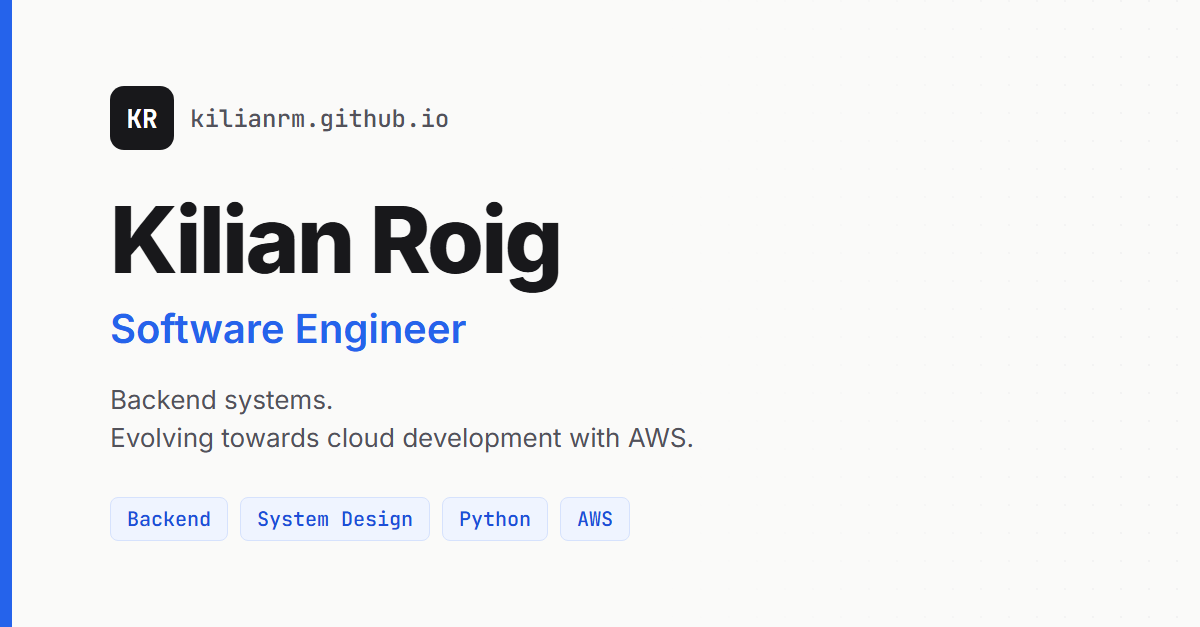
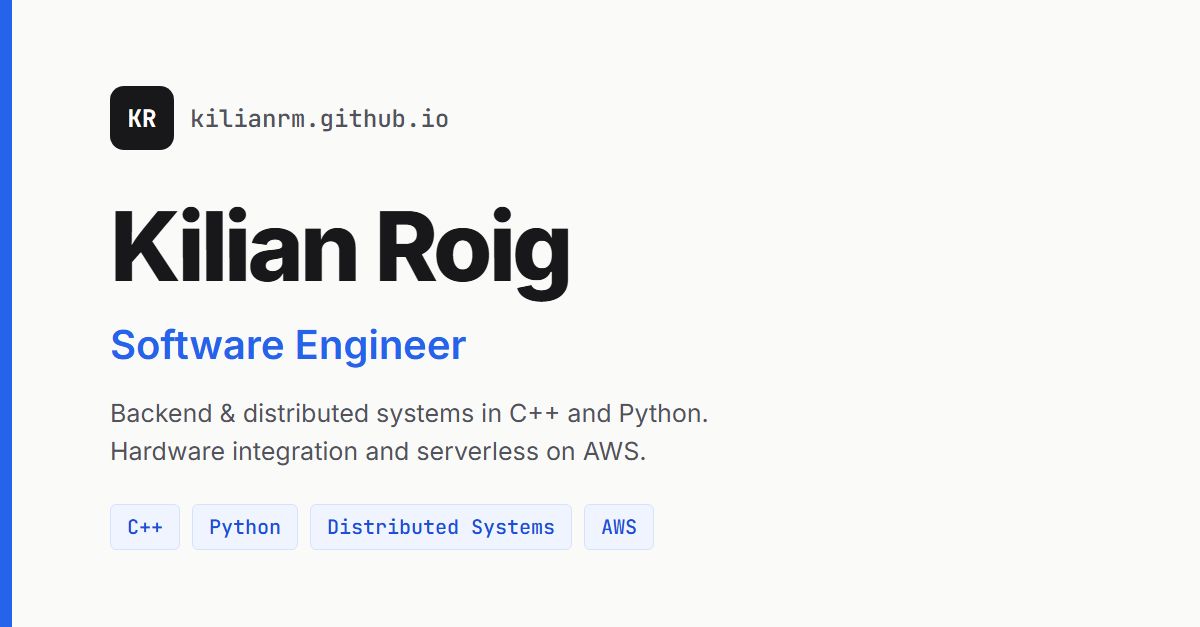
Refactor index section

diff --git a/index.html b/index.html
@@ -5,12 +5,12 @@
     <meta name="viewport" content="width=device-width, initial-scale=1.0">
     <!-- BLOCK dark mode -->
     <meta name="color-scheme" content="light">
-    <meta name="description" content="Software Engineer with experience in technically demanding environments, working on backend systems, simulation platforms and data-driven software.">
+    <meta name="description" content="Backend Software Engineer building distributed systems in C++ and Python, with hands-on hardware and sensor integration and serverless, event-driven experience on AWS.">
     <title>Kilian Roig - Software Engineer</title>
     <meta property="og:type" content="website">
     <meta property="og:site_name" content="Kilian Roig">
     <meta property="og:title" content="Kilian Roig - Software Engineer">
-    <meta property="og:description" content="Software Engineer with experience in technically demanding environments, working on backend systems.">
+    <meta property="og:description" content="Backend Software Engineer building distributed systems in C++ and Python, with hands-on hardware and sensor integration and serverless, event-driven experience on AWS.">
     <meta property="og:url" content="https://kilianrm.github.io/">
     <meta property="og:image" content="https://kilianrm.github.io/assets/og-image.png">
     <meta property="og:image:width" content="1200">
@@ -21,7 +21,7 @@
     <link rel="preconnect" href="https://fonts.googleapis.com">
     <link rel="preconnect" href="https://fonts.gstatic.com" crossorigin>
     <link rel="stylesheet" href="https://fonts.googleapis.com/css2?family=Inter:wght@400;500;600;700&family=JetBrains+Mono:wght@400;500;600&display=swap">
-    <link rel="stylesheet" href="style.css?v=7">
+    <link rel="stylesheet" href="style.css?v=14">
 </head>
 <body>
 <a class="skip-link" href="#main">Skip to content</a>
@@ -46,9 +46,10 @@
         <h1>Kilian Roig</h1>
         <p class="hero-role">Software Engineer</p>
         <p class="hero-bio">
-            Software Engineer with experience in technically demanding environments, working on backend systems,
-            simulation platforms and data-driven software. Focused on clean code, system design and long-term
-            maintainability, currently evolving towards cloud-based development with AWS.
+            Backend Software Engineer building distributed systems in C++ and Python. Currently at Sopra Steria,
+            developing C++ services for highway infrastructure. Background in aeronautical communication systems,
+            network routing and hardware and sensor integration. On the cloud side, I build serverless, event-driven
+            systems on AWS with Terraform and CI/CD.
         </p>
         <div class="cta-buttons">
             <a href="assets/cv-kilian-roig.pdf"
@@ -74,6 +75,30 @@
         <h2 class="section-title">Experience</h2>
 
         <ol class="timeline">
+            <li class="timeline-item">
+                <p class="timeline-date">May 2026 – Present</p>
+                <div class="timeline-body">
+                    <h3>Software Engineer (C++) – Sopra Steria</h3>
+                    <ul class="list">
+                        <li>Design, develop and maintain C++ backend services that process requests from highway infrastructure components.</li>
+                        <li>Work on distributed systems integration across services and infrastructure components.</li>
+                        <li>Drive performance optimization and debugging of production backend services.</li>
+                    </ul>
+                </div>
+            </li>
+
+            <li class="timeline-item">
+                <p class="timeline-date">Jan 2026 – Apr 2026</p>
+                <div class="timeline-body">
+                    <h3>Independent Project – Cloud Engineering (AWS)</h3>
+                    <ul class="list">
+                        <li>Built a <a href="personal-projects.html#event-project">serverless event-driven platform</a> on AWS using Lambda, API Gateway, SQS and DynamoDB.</li>
+                        <li>Secured the API with JWT Lambda authorizers and added DLQ-based fault tolerance and CloudWatch observability.</li>
+                        <li>Provisioned all infrastructure with Terraform and validated it with unit, integration and end-to-end tests.</li>
+                    </ul>
+                </div>
+            </li>
+
             <li class="timeline-item">
                 <p class="timeline-date">Jun 2025 – Sep 2025</p>
                 <div class="timeline-body">
@@ -115,16 +140,19 @@
         </ol>
     </section>
 
-    <!-- TRAINING -->
-    <section class="section" id="training">
-        <h2 class="section-title">Training</h2>
+    <!-- EDUCATION -->
+    <section class="section" id="education">
+        <h2 class="section-title">Education</h2>
 
-        <ul class="list">
-            <li><strong>Operating Systems Fundamentals for Communication Systems</strong> (40 hours) – Indra</li>
-            <li><strong>C++ Programming Fundamentals</strong> (40 hours) – Indra</li>
-            <li><strong>IP Networking Fundamentals</strong> (40 hours) – Indra</li>
-            <li><strong>Docker and Kubernetes Fundamentals</strong> (40 hours) – Indra</li>
-        </ul>
+        <ol class="timeline">
+            <li class="timeline-item">
+                <p class="timeline-date">Sep 2018 – Jul 2022</p>
+                <div class="timeline-body">
+                    <h3>Bachelor’s Degree in Computer Engineering – Universitat Politècnica de Catalunya</h3>
+                    <p>Information Technology</p>
+                </div>
+            </li>
+        </ol>
     </section>
 
     <!-- SKILLS -->
@@ -135,41 +163,92 @@
             <div class="skill-category">
                 <h3>Languages</h3>
                 <ul>
-                    <li>C / C++</li>
                     <li>Python</li>
+                    <li>Go</li>
+                    <li>C / C++ (Qt)</li>
                     <li>Bash</li>
                 </ul>
             </div>
 
             <div class="skill-category">
-                <h3>Backend &amp; Systems</h3>
+                <h3>Backend &amp; Architecture</h3>
                 <ul>
+                    <li>Microservices</li>
+                    <li>Event-driven Architecture</li>
                     <li>FastAPI</li>
-                    <li>Client–Server Architectures</li>
-                    <li>Simulation &amp; Data Processing</li>
-                    <li>Linux Systems</li>
+                    <li>JWT Authentication</li>
+                    <li>System Design</li>
+                    <li>Distributed Systems Testing</li>
                 </ul>
             </div>
 
             <div class="skill-category">
-                <h3>Cloud &amp; DevOps</h3>
+                <h3>AWS</h3>
                 <ul>
-                    <li>AWS (learning &amp; hands-on projects)</li>
+                    <li>Lambda</li>
+                    <li>API Gateway</li>
+                    <li>SQS</li>
+                    <li>ECS</li>
+                    <li>EKS</li>
+                    <li>CDK</li>
+                </ul>
+            </div>
+
+            <div class="skill-category">
+                <h3>DevOps &amp; Infrastructure</h3>
+                <ul>
+                    <li>Kubernetes</li>
                     <li>Docker &amp; Docker Compose</li>
+                    <li>Terraform (IaC)</li>
                     <li>CI/CD (GitHub Actions)</li>
                 </ul>
             </div>
 
             <div class="skill-category">
-                <h3>Practices</h3>
+                <h3>Databases</h3>
                 <ul>
-                    <li>Clean Code &amp; Maintainability</li>
-                    <li>System Design</li>
-                    <li>Testing &amp; Validation</li>
-                    <li>Long-term Ownership</li>
+                    <li>PostgreSQL</li>
+                    <li>MongoDB</li>
+                    <li>DynamoDB</li>
+                    <li>Redis</li>
+                </ul>
+            </div>
+
+            <div class="skill-category">
+                <h3>Systems &amp; Networking</h3>
+                <ul>
+                    <li>Linux Systems</li>
+                    <li>Real-time Communication Systems</li>
+                    <li>Network Routing</li>
+                    <li>Packet-level Traffic Analysis</li>
                 </ul>
             </div>
         </div>
+    </section>
+
+    <!-- TRAINING -->
+    <section class="section" id="training">
+        <h2 class="section-title">Training</h2>
+
+        <ul class="list">
+            <li><strong>Kubernetes Hands-on Training</strong> (20 hours) – Sopra Steria</li>
+            <li><strong>Microservices: Solution Building Training</strong> (12 hours) – Sopra Steria</li>
+            <li><strong>Operating Systems Fundamentals for Communication Systems</strong> (40 hours) – Indra</li>
+            <li><strong>C++ Programming Fundamentals</strong> (40 hours) – Indra</li>
+            <li><strong>IP Networking Fundamentals</strong> (40 hours) – Indra</li>
+            <li><strong>Docker and Kubernetes Fundamentals</strong> (40 hours) – Indra</li>
+        </ul>
+    </section>
+
+    <!-- LANGUAGES -->
+    <section class="section" id="languages">
+        <h2 class="section-title">Languages</h2>
+
+        <ul class="list">
+            <li><strong>Catalan</strong> – Native or bilingual proficiency</li>
+            <li><strong>Spanish</strong> – Native or bilingual proficiency</li>
+            <li><strong>English</strong> – Professional working proficiency</li>
+        </ul>
     </section>
 
     <!-- CONTACT -->

diff --git a/style.css b/style.css
@@ -446,6 +446,11 @@ main.container {
     margin-top: 10px;
 }
 
+.timeline-body > p {
+    margin-top: 4px;
+    color: var(--text-muted);
+}
+
 /* =====================
    Lists
    ===================== */
@@ -486,12 +491,23 @@ main.container {
 
 .skills-grid {
     display: grid;
-    grid-template-columns: repeat(2, 1fr);
-    gap: 32px 40px;
+}
+
+.skill-category {
+    display: grid;
+    grid-template-columns: 190px 1fr;
+    gap: 16px;
+    align-items: baseline;
+    padding: 12px 0;
+    border-top: 1px solid var(--border);
+}
+
+.skill-category:first-child {
+    padding-top: 0;
+    border-top: 0;
 }
 
 .skill-category h3 {
-    margin-bottom: 12px;
     font-size: 0.95rem;
     font-weight: 600;
     color: var(--text);
@@ -500,16 +516,16 @@ main.container {
 .skill-category ul {
     display: flex;
     flex-wrap: wrap;
-    gap: 8px;
+    gap: 6px;
     list-style: none;
 }
 
 .skill-category li {
-    padding: 5px 12px;
+    padding: 3px 10px;
     border: 1px solid var(--border);
     border-radius: 999px;
     background: var(--surface);
-    font-size: 0.875rem;
+    font-size: 0.8125rem;
     color: var(--text-muted);
 }
 
@@ -558,6 +574,26 @@ main.container {
     margin: -36px -36px 28px;
     border-bottom: 1px solid var(--border);
     background: #f5f8ff;
+}
+
+.project--featured .project-media {
+    position: relative;
+}
+
+/* Ribbon hanging from the top edge, with a notched tail. */
+.project-featured {
+    position: absolute;
+    top: 0;
+    right: 24px;
+    z-index: 1;
+    display: flex;
+    justify-content: center;
+    width: 28px;
+    height: 40px;
+    padding-top: 9px;
+    background: linear-gradient(180deg, #fbbf24, #f59e0b);
+    clip-path: polygon(0 0, 100% 0, 100% 100%, 50% 78%, 0 100%);
+    color: #ffffff;
 }
 
 .project-media img {
@@ -689,6 +725,12 @@ main.container {
 .project-grid.is-enhanced .project:hover {
     border-color: var(--accent-border);
     box-shadow: 0 10px 30px -14px rgba(37, 99, 235, 0.3);
+}
+
+/* Featured card: gold hover to match its ribbon. */
+.project-grid.is-enhanced .project--featured:hover {
+    border-color: #fcd34d;
+    box-shadow: 0 0 0 1px #fde68a, 0 10px 30px -12px rgba(245, 158, 11, 0.45);
 }
 
 .project-grid.is-enhanced .project > :not(.project-media):not(.project-header):not(.tech-stack):not(.project-open) {
@@ -831,6 +873,19 @@ html.dialog-open {
     box-shadow: none;
 }
 
+/* Keep the ribbon clear of the close button (12px inset + 36px wide). */
+.project-dialog .project-featured {
+    right: 80px;
+    width: 36px;
+    height: 52px;
+    padding-top: 12px;
+}
+
+.project-dialog .project-featured svg {
+    width: 18px;
+    height: 18px;
+}
+
 @keyframes dialogIn {
     from {
         opacity: 0;
@@ -967,7 +1022,11 @@ html.dialog-open {
         top: -18px;
     }
 
-    .skills-grid,
+    .skill-category {
+        grid-template-columns: 1fr;
+        gap: 8px;
+    }
+
     .contact-list {
         grid-template-columns: 1fr;
         gap: 24px;

diff --git a/personal-projects.html b/personal-projects.html
@@ -21,7 +21,7 @@
     <link rel="preconnect" href="https://fonts.googleapis.com">
     <link rel="preconnect" href="https://fonts.gstatic.com" crossorigin>
     <link rel="stylesheet" href="https://fonts.googleapis.com/css2?family=Inter:wght@400;500;600;700&family=JetBrains+Mono:wght@400;500;600&display=swap">
-    <link rel="stylesheet" href="style.css?v=7">
+    <link rel="stylesheet" href="style.css?v=14">
 </head>
 <body>
 <a class="skip-link" href="#main">Skip to content</a>
@@ -50,8 +50,11 @@
 
         <div class="project-grid">
 
-        <article class="project" id="smart-offer-matching-project">
+        <article class="project project--featured" id="smart-offer-matching-project">
             <figure class="project-media">
+                <span class="project-featured" role="img" aria-label="Featured project" title="Featured project">
+                    <svg viewBox="0 0 24 24" width="14" height="14" aria-hidden="true"><path fill="currentColor" d="M12 2.5l2.94 5.96 6.56.95-4.75 4.63 1.12 6.54L12 17.5l-5.87 3.08 1.12-6.54L2.5 9.41l6.56-.95z"/></svg>
+                </span>
                 <img src="assets/projects/smart-offer-matching.svg" width="800" height="300" loading="lazy"
                      alt="Conceptual illustration of a job seeker using Smart Offer Matching to find relevant opportunities from external job sites.">
             </figure>

diff --git a/product-lab.html b/product-lab.html
@@ -21,7 +21,7 @@
     <link rel="preconnect" href="https://fonts.googleapis.com">
     <link rel="preconnect" href="https://fonts.gstatic.com" crossorigin>
     <link rel="stylesheet" href="https://fonts.googleapis.com/css2?family=Inter:wght@400;500;600;700&family=JetBrains+Mono:wght@400;500;600&display=swap">
-    <link rel="stylesheet" href="style.css?v=7">
+    <link rel="stylesheet" href="style.css?v=14">
 </head>
 <body>
 <a class="skip-link" href="#main">Skip to content</a>

diff --git a/professional-projects.html b/professional-projects.html
@@ -21,7 +21,7 @@
     <link rel="preconnect" href="https://fonts.googleapis.com">
     <link rel="preconnect" href="https://fonts.gstatic.com" crossorigin>
     <link rel="stylesheet" href="https://fonts.googleapis.com/css2?family=Inter:wght@400;500;600;700&family=JetBrains+Mono:wght@400;500;600&display=swap">
-    <link rel="stylesheet" href="style.css?v=7">
+    <link rel="stylesheet" href="style.css?v=14">
 </head>
 <body>
 <a class="skip-link" href="#main">Skip to content</a>
